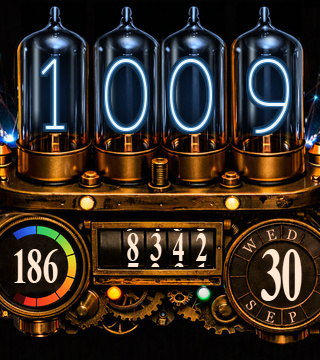
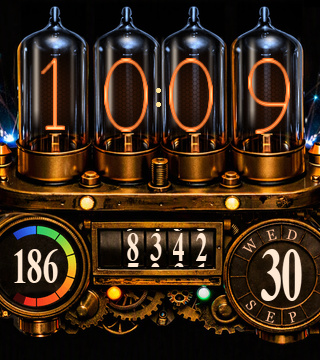
docs: record the orange tube restyle (L59-L60) and refresh the images
L59 keeps what the restyle taught: a mesh must occlude rather than glow, two
halo rings read as "complex shading" where the reference has one, and stroke
weight is a font property (so thinning lives in make_fonts.py). L60 is the rule
behind it: a colour the watch draws live goes through the same AMOLED
pre-correction as the artwork, in a generated file so the two cannot drift.

README, LAYOUT and the user manual now describe orange tubes, the anode grid and
the colon; the README/store images and the size-limited upload set are
regenerated from the new frame.

Changed region(s): [[0.3125, 0.1222, 0.6875, 0.3972], [0.75, 0.1222, 0.9375, 0.3972], [0.0938, 0.1222, 0.25, 0.3667]]

diff --git a/docs/LESSONS_LEARNT.md b/docs/LESSONS_LEARNT.md
@@ -435,3 +435,37 @@ times a heredoc-wrapped Python edit turned `"\n"` into a real newline inside a s
 and the edited file stopped compiling. A script written with the file tool and then run is
 literal, re-runnable and reviewable, and its `assert s.count(a) == 1` per edit catches a stale
 anchor before anything is half-applied.
+
+**L59. DECISION — hot orange tubes with a honeycomb anode grid, and a thin wire for the digits
+(user-approved; candidates in `ciq/artwork/tube_restyle_candidates.png`, stroke test in
+`ciq/artwork/tube_restyle_stroke.png`).** The face shipped blue digits in cool glass; the user's
+reference photographs were orange, so the ink, the glass and the digits' weight all moved. Every
+value came from measuring the reference rather than eyeballing it: the wire is a hot yellow-white
+core (`(252,226,150)`; the photo measures `(236,225,139)` at luminance 0.87) inside ONE bright
+orange ring `(255,118,38)`; the glass haze went warm `(0.62,0.26,0.06)` with a warm specular; the
+anode grid is a hex lattice at 16 cells across a tube. Two findings worth keeping:
+
+- **A mesh must occlude, not glow.** Drawn additively the honeycomb *cost* digit contrast (2.8 →
+  2.0 on the same core-vs-glass measure) because it added light under the glyph. Drawn as a
+  multiply occluder it gave the contrast back (2.8) and reads as wire mesh rather than a printed
+  pattern. Reference and readability were not in conflict here: the photo's own digit-vs-glass
+  ratio is ~2.8 and the face sits in the same band.
+- **Two halo rings read as "complex shading"; the reference has one.** `GLOW_RAD2 == GLOW_RAD1`
+  makes `glowing()` skip the outer pass entirely — one ring, and 8 fewer glyph blits per digit per
+  frame. A drawn glow is solid offsets of the glyph, so each extra ring is real per-frame cost.
+
+Stroke weight is a FONT property, not an ink one: Nixie One's stems are ~2x the thickness of the
+reference's wire, so `make_fonts.py` takes a `thin` argument (erode 1 px per side, then a 0.5 px
+blur to put the anti-aliasing back). 2 px per side starts eating the vertical stem of a `1`.
+
+**L60. DECISION — live-drawn ink is GENERATED (`source/TubeInk.mc`), because it must be
+pre-corrected exactly like the baked art.** The background is pre-corrected once by
+`device_colour.correct()`; the digits are drawn live by `drawText`. While the ink was blue that
+mismatch did not matter — the correction's weight fades out below 340 deg and above 80 deg, so blue
+and the lamps were untouched. Orange sits exactly where the AMOLED shifts, so the shipping
+constants are now `device_colour.correct()` of the target colour measured off the reference, written
+by `ciq/tube_colour.py` into a generated `.mc` and wired into `make.py assets` — the same pattern as
+`HrGauge.mc`'s corrected segment table. Rule: a colour the watch draws live goes through the SAME
+correction as the artwork, and lives in a generated file so the two cannot drift. The separator
+(two solid dots in the digits' own ink, no glow ring) is drawn the same way, with its geometry
+generated into `Layout.mc`.

diff --git a/ciq/LAYOUT.md b/ciq/LAYOUT.md
@@ -45,9 +45,16 @@ windows, the HR and day numbers, the arc channels. The HR gauge (`hr_gauge.py`),
 forward. Check: feeding layout C back through `geometry()` reproduces every hand-measured value
 that shipped on it, exactly. A zoom change is now the one `ST, SB, TOP_Y` line.
 
-The tube envelopes are re-lit as clear blue glass before the split (`glass_tubes`; see
-LESSONS L56), and the step counter now uses all **five** drum windows the art has (dividers at
-screen x 99 / 122 / 144 / 167 / 190 / 214, window y 229..267 on this frame).
+The tube envelopes are re-lit before the split (`glass_tubes`): the walls are re-lit as glass
+(see LESSONS L56), now with a **warm amber** haze and specular because the digits burn orange
+(LESSONS L59), plus a **hexagonal anode grid** — a real nixie's mesh, drawn as an occluder at
+`MESH_R_SRC` 5.35 on the 1024 grid (16 cells across a tube, `_hex_mesh`, supersampled). The step
+counter uses all **five** drum windows the art has (dividers at screen x 99 / 122 / 144 / 167 /
+190 / 214, window y 229..267 on this frame).
+
+The hours/minutes colon is DRAWN, not baked (nothing on the device rotates text, and the art has no
+colon): `SEP_X` 159 / `SEP_Y` 97 ± `SEP_DY` 7, `SEP_R` 2, in the tube 2 / tube 3 gap — all four
+generated into `source/Layout.mc`. Its ink comes from `source/TubeInk.mc` (LESSONS L60).
 
 ### The original uniform transform (history)
 

diff --git a/docs/USER_MANUAL.md b/docs/USER_MANUAL.md
@@ -16,7 +16,7 @@
 
 | Element | What it shows |
 |---|---|
-| Four nixie tubes | The time, as 24-hour `HH MM`, in thin glowing nixie digits. |
+| Four nixie tubes | The time, as 24-hour `HH MM`, in thin glowing orange nixie digits, with two lit dots between the hours and the minutes. |
 | Five drums | Today's step count, up to 99,999. The digits sit on belts; when the count changes while the screen is awake, each changed digit rolls down into place. |
 | Left gauge | Your current **heart rate**. The band is lit up to your rate in seven equal steps: 40–60 bpm (cold blue), 60 bpm to your zone 1 (green, a normal resting rate), then your five zones (green → yellow → orange → red). Your zones come from Garmin Connect (*User Settings → Heart Rate Zones*). |
 | Right dial | The **day** in the centre. The **weekday** is set into the ring above it and the **month** below, one letter per segment. |

diff --git a/README.md b/README.md
@@ -13,8 +13,9 @@ tips every time you raise your wrist.**
 
 ## Features
 
-- **Nixie-tube time**: thin, wire-like digits (Nixie One) glowing blue inside clear glass
-  tubes, with a glow that breathes and flashes when a spark strikes.
+- **Nixie-tube time**: thin, wire-like digits (Nixie One) burning hot orange inside glass
+  tubes lined with a honeycomb anode grid. The glow breathes, and flashes when a spark strikes.
+- **Colon separator**: two lit dots between the hours and the minutes.
 - **Electric arcs** jump between the tube tips for the ~10 s after a wrist raise. The animation
   runs only while the screen is awake.
 - **Heart-rate gauge**: a band lit up to your current rate. It's cold blue below 60 bpm, turns
